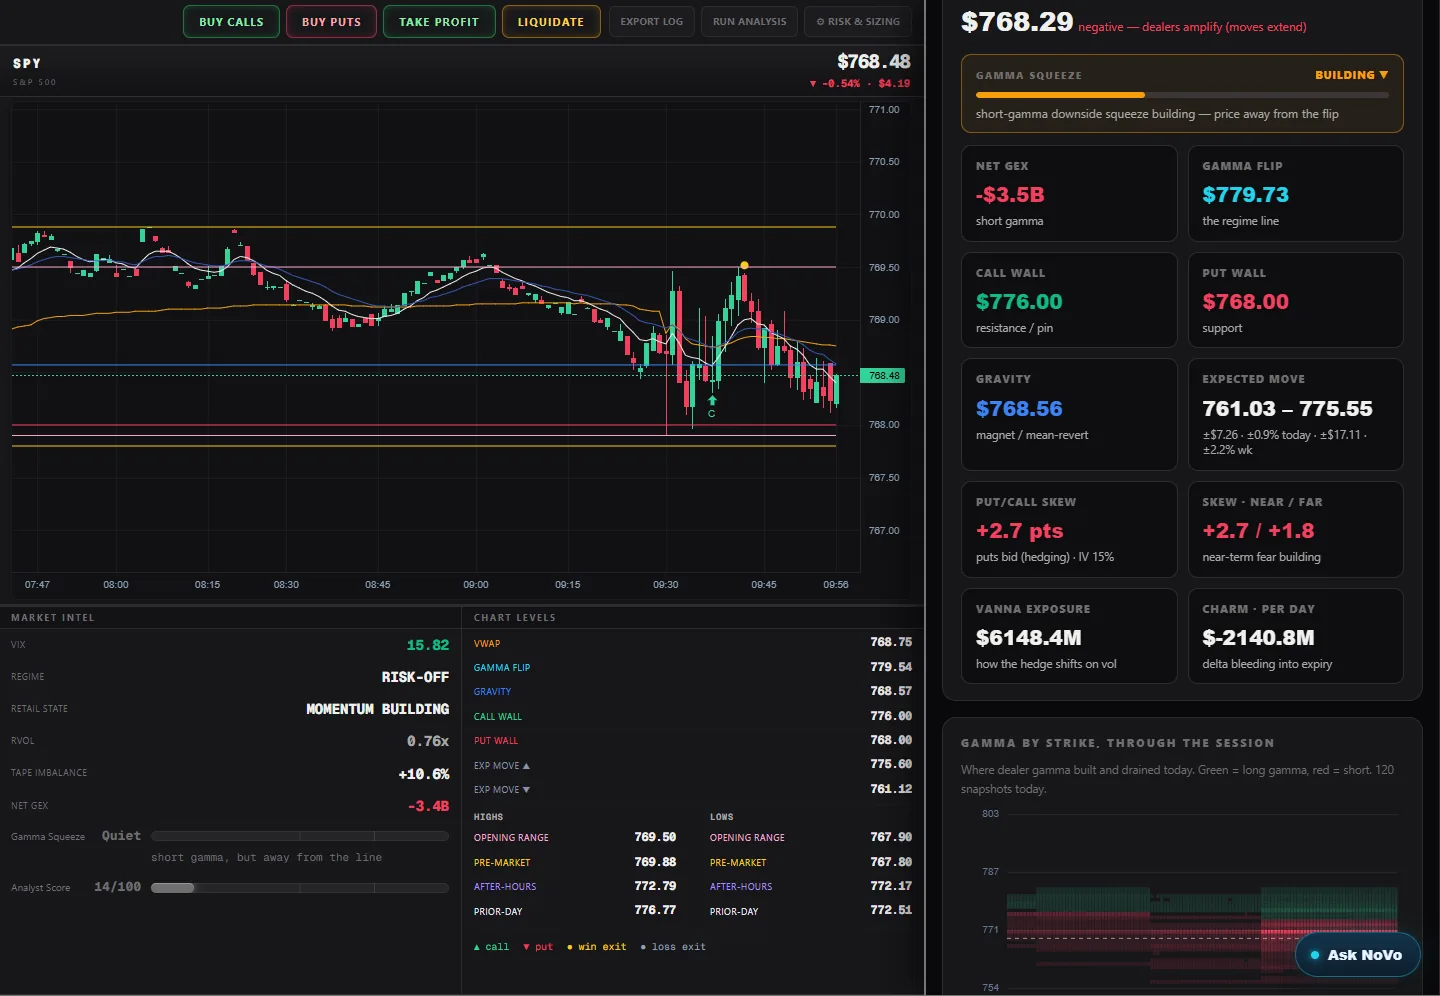
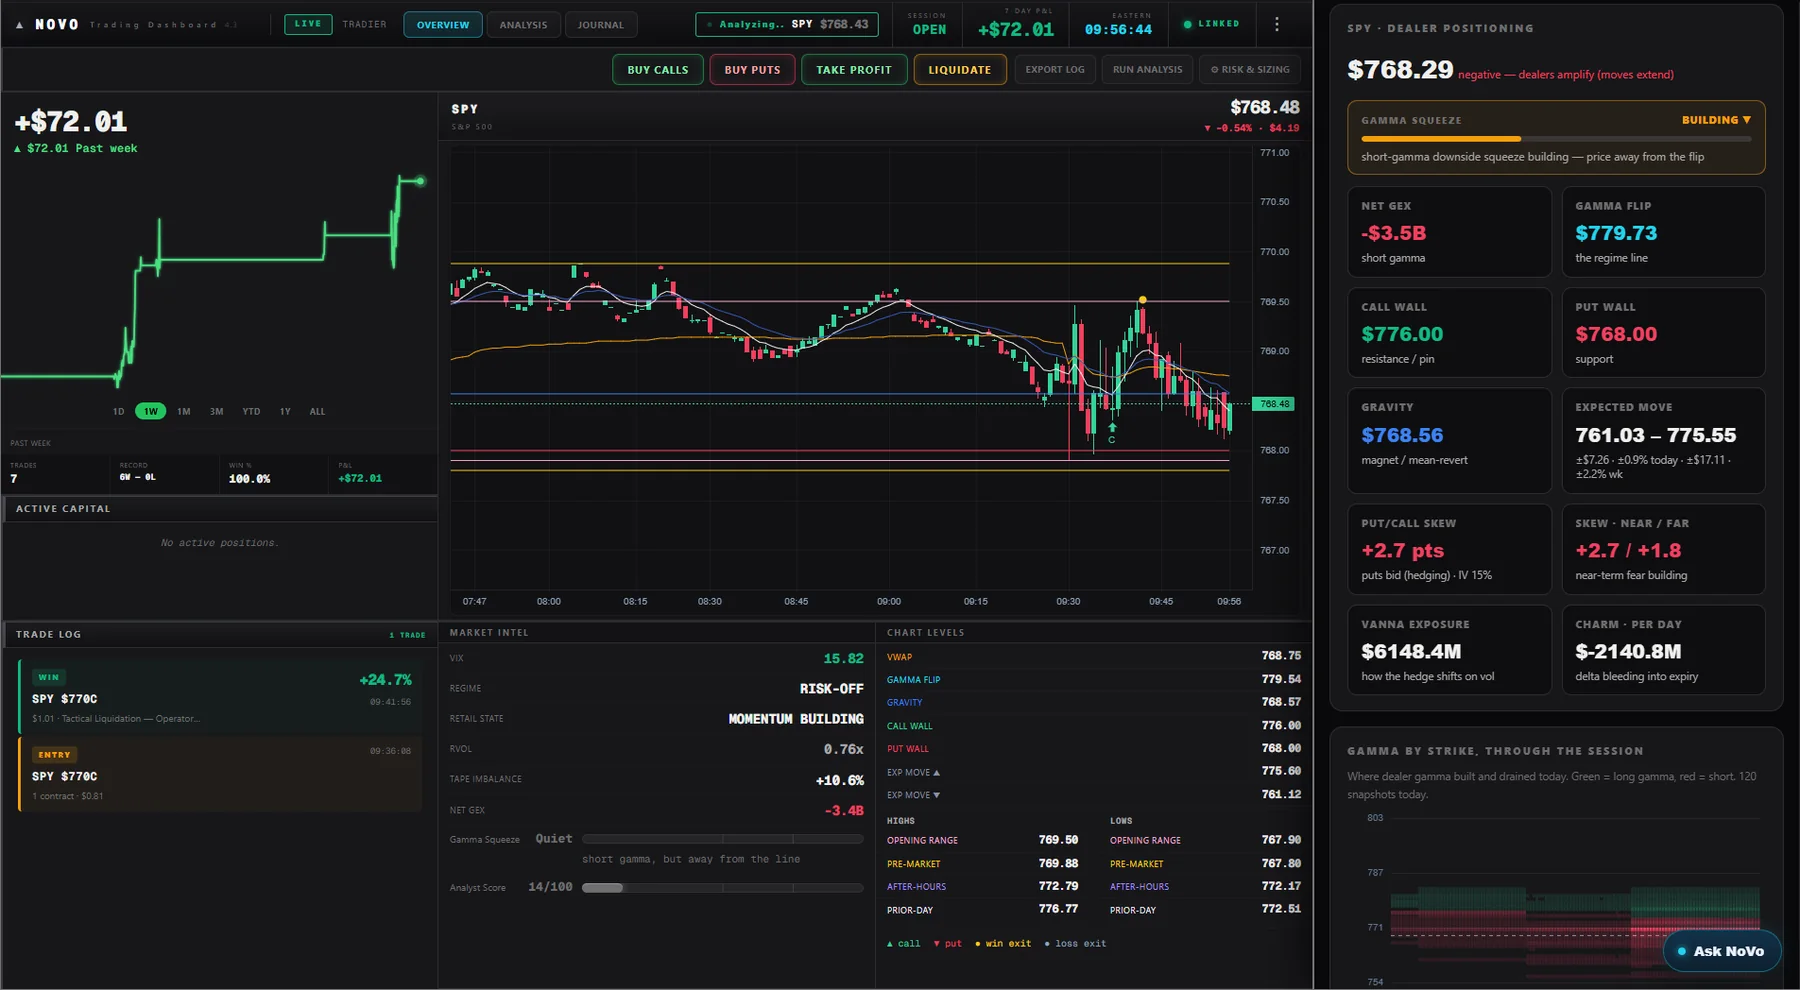
Use all eight screenshots as shot — no crops
The previous commit cropped the account figures out of the cockpit and the two
phone captures. Jake's call: use them exactly as sent. Reverted to full frames and
all eight are now in, at their original aspect.

The set maps onto the hero-mashup the page already had CSS for: the 1905x1048
desktop capture is the back plate (the old one was 1500x827, near-identical
ratio) and the four 502x~1050 phone captures are the fan — trade, risk, journal,
analysis. The three Analyst captures go in the three-card fan on /analyst.

They also show what the site now sells and previously could not picture: vanna and
charm on the dealer read, gamma by strike through the session, the sweeps and
blocks print tape, and the notification row with push alerts described correctly.

WebP throughout, 405K for all eight, against 503K for the five JPEGs this replaces.

Claude-Session: https://claude.ai/code/session_01WoHXdguxNm7gppBsxRaA2g

diff --git a/public/trader.html b/public/trader.html
@@ -595,26 +595,16 @@ nav { position: relative; }
 }
 </style>
 
-    <figure style="max-width:1080px;margin:34px auto 6px;">
-      <img src="/screenshots/trader-cockpit.webp" width="1440" height="996" loading="eager" fetchpriority="high" decoding="async"
-           alt="The NoVo Trader cockpit &mdash; one-click Buy Calls and Buy Puts above the live SPY scalping chart with dealer levels, market intel and chart levels, beside the full dealer-positioning read: net GEX, gamma flip, walls, gravity, expected move, skew, vanna and charm"
-           style="width:100%;height:auto;border-radius:12px;border:1px solid var(--bdr);box-shadow:0 18px 50px rgba(0,0,0,.45);">
-      <figcaption style="margin-top:10px;font-size:13px;color:var(--txt3);text-align:center;">The map and the button on one screen &mdash; the read on the right, the trade on the left.</figcaption>
-    </figure>
-
-    <div style="display:grid;grid-template-columns:repeat(auto-fit,minmax(190px,1fr));gap:16px;max-width:560px;margin:22px auto 0;">
-      <figure style="margin:0;">
-        <img src="/screenshots/trader-phone-trade.webp" width="502" height="1001" loading="lazy" decoding="async"
-             alt="NoVo Trader on a phone &mdash; the trade tab with the live chart, market intel and chart levels"
-             style="width:100%;height:auto;border-radius:11px;border:1px solid var(--bdr);">
-      </figure>
-      <figure style="margin:0;">
-        <img src="/screenshots/trader-phone-analysis.webp" width="502" height="1002" loading="lazy" decoding="async"
-             alt="NoVo Trader on a phone &mdash; the analysis tab with the top-of-hour structural audit and its thesis"
-             style="width:100%;height:auto;border-radius:11px;border:1px solid var(--bdr);">
-      </figure>
+    <div class="hero-mashup">
+      <div class="hm-back"><img src="/screenshots/trader-cockpit.webp" width="1800" height="990" alt="The NoVo Trader cockpit &mdash; one-click Buy Calls and Buy Puts above the live SPY scalping chart with dealer levels, the trade log and equity curve, market intel and chart levels, beside the full dealer-positioning read: net GEX, gamma flip, walls, gravity, expected move, skew, vanna and charm" loading="eager" fetchpriority="high" decoding="async"></div>
+      <div class="hm-fan">
+        <div class="hm-card" style="transform:rotate(-14deg) ;z-index:4;"><img src="/screenshots/trader-trade.webp" width="502" height="1045" alt="NoVo Trader on a phone &mdash; the trade tab &mdash; the live chart with dealer levels, market intel and chart levels" loading="lazy" decoding="async"></div>
+        <div class="hm-card" style="transform:rotate(-6deg) translateY(14px);z-index:3;margin-left:-50px;"><img src="/screenshots/trader-risk.webp" width="502" height="1048" alt="NoVo Trader on a phone &mdash; the risk tab &mdash; trade log, equity curve, control panel and risk presets" loading="lazy" decoding="async"></div>
+        <div class="hm-card" style="transform:rotate(5deg) translateY(14px);z-index:2;margin-left:-50px;"><img src="/screenshots/trader-journal.webp" width="502" height="1047" alt="NoVo Trader on a phone &mdash; the performance journal and audit trail" loading="lazy" decoding="async"></div>
+        <div class="hm-card" style="transform:rotate(14deg) ;z-index:1;margin-left:-50px;"><img src="/screenshots/trader-analysis.webp" width="502" height="1080" alt="NoVo Trader on a phone &mdash; the analysis tab &mdash; the top-of-hour structural audit and its thesis" loading="lazy" decoding="async"></div>
+      </div>
     </div>
-    <p style="font-size:12.5px;color:var(--txt3);text-align:center;margin:10px auto 0;">Installs on your phone &mdash; the same cockpit, in your pocket.</p>
+    <p style="font-size:11px;color:var(--txt3);text-align:center;margin:16px auto 0;">The live cockpit and the phone app &mdash; the dealer read and the button on one screen.</p>
 
 
     <p style="margin-top:44px;">NoVo does the execution heavy lifting — executes your entry in one click, sizes the position, manages the trade, and exits the moment your rules trigger — mechanically, against the boundaries you set, not against your nerve.</p>
